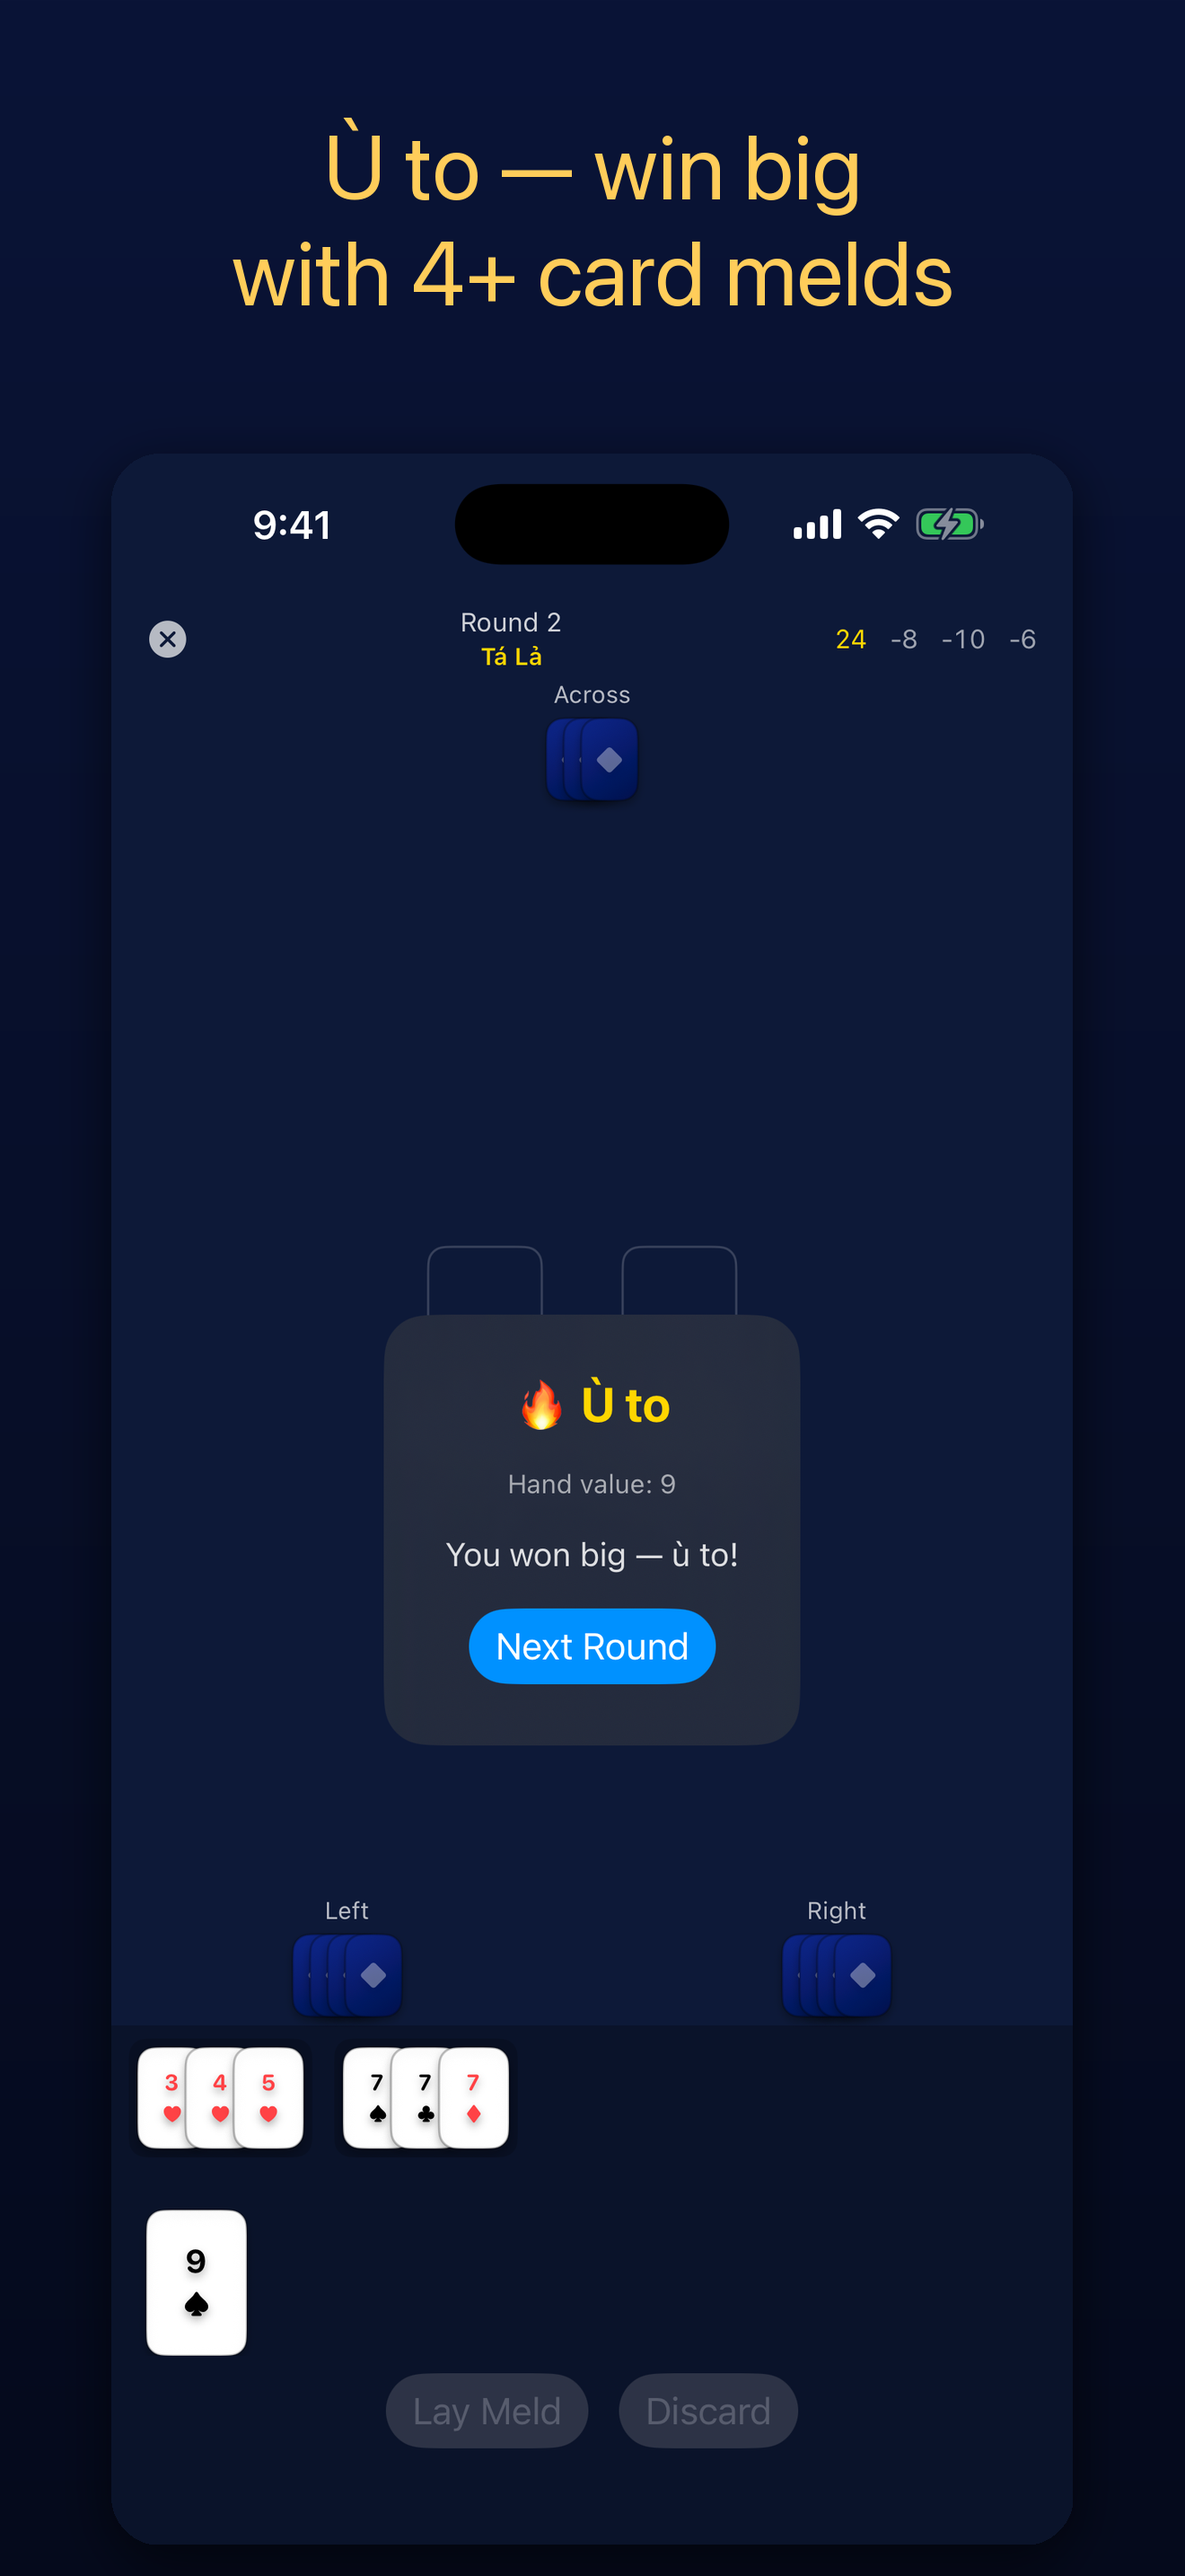
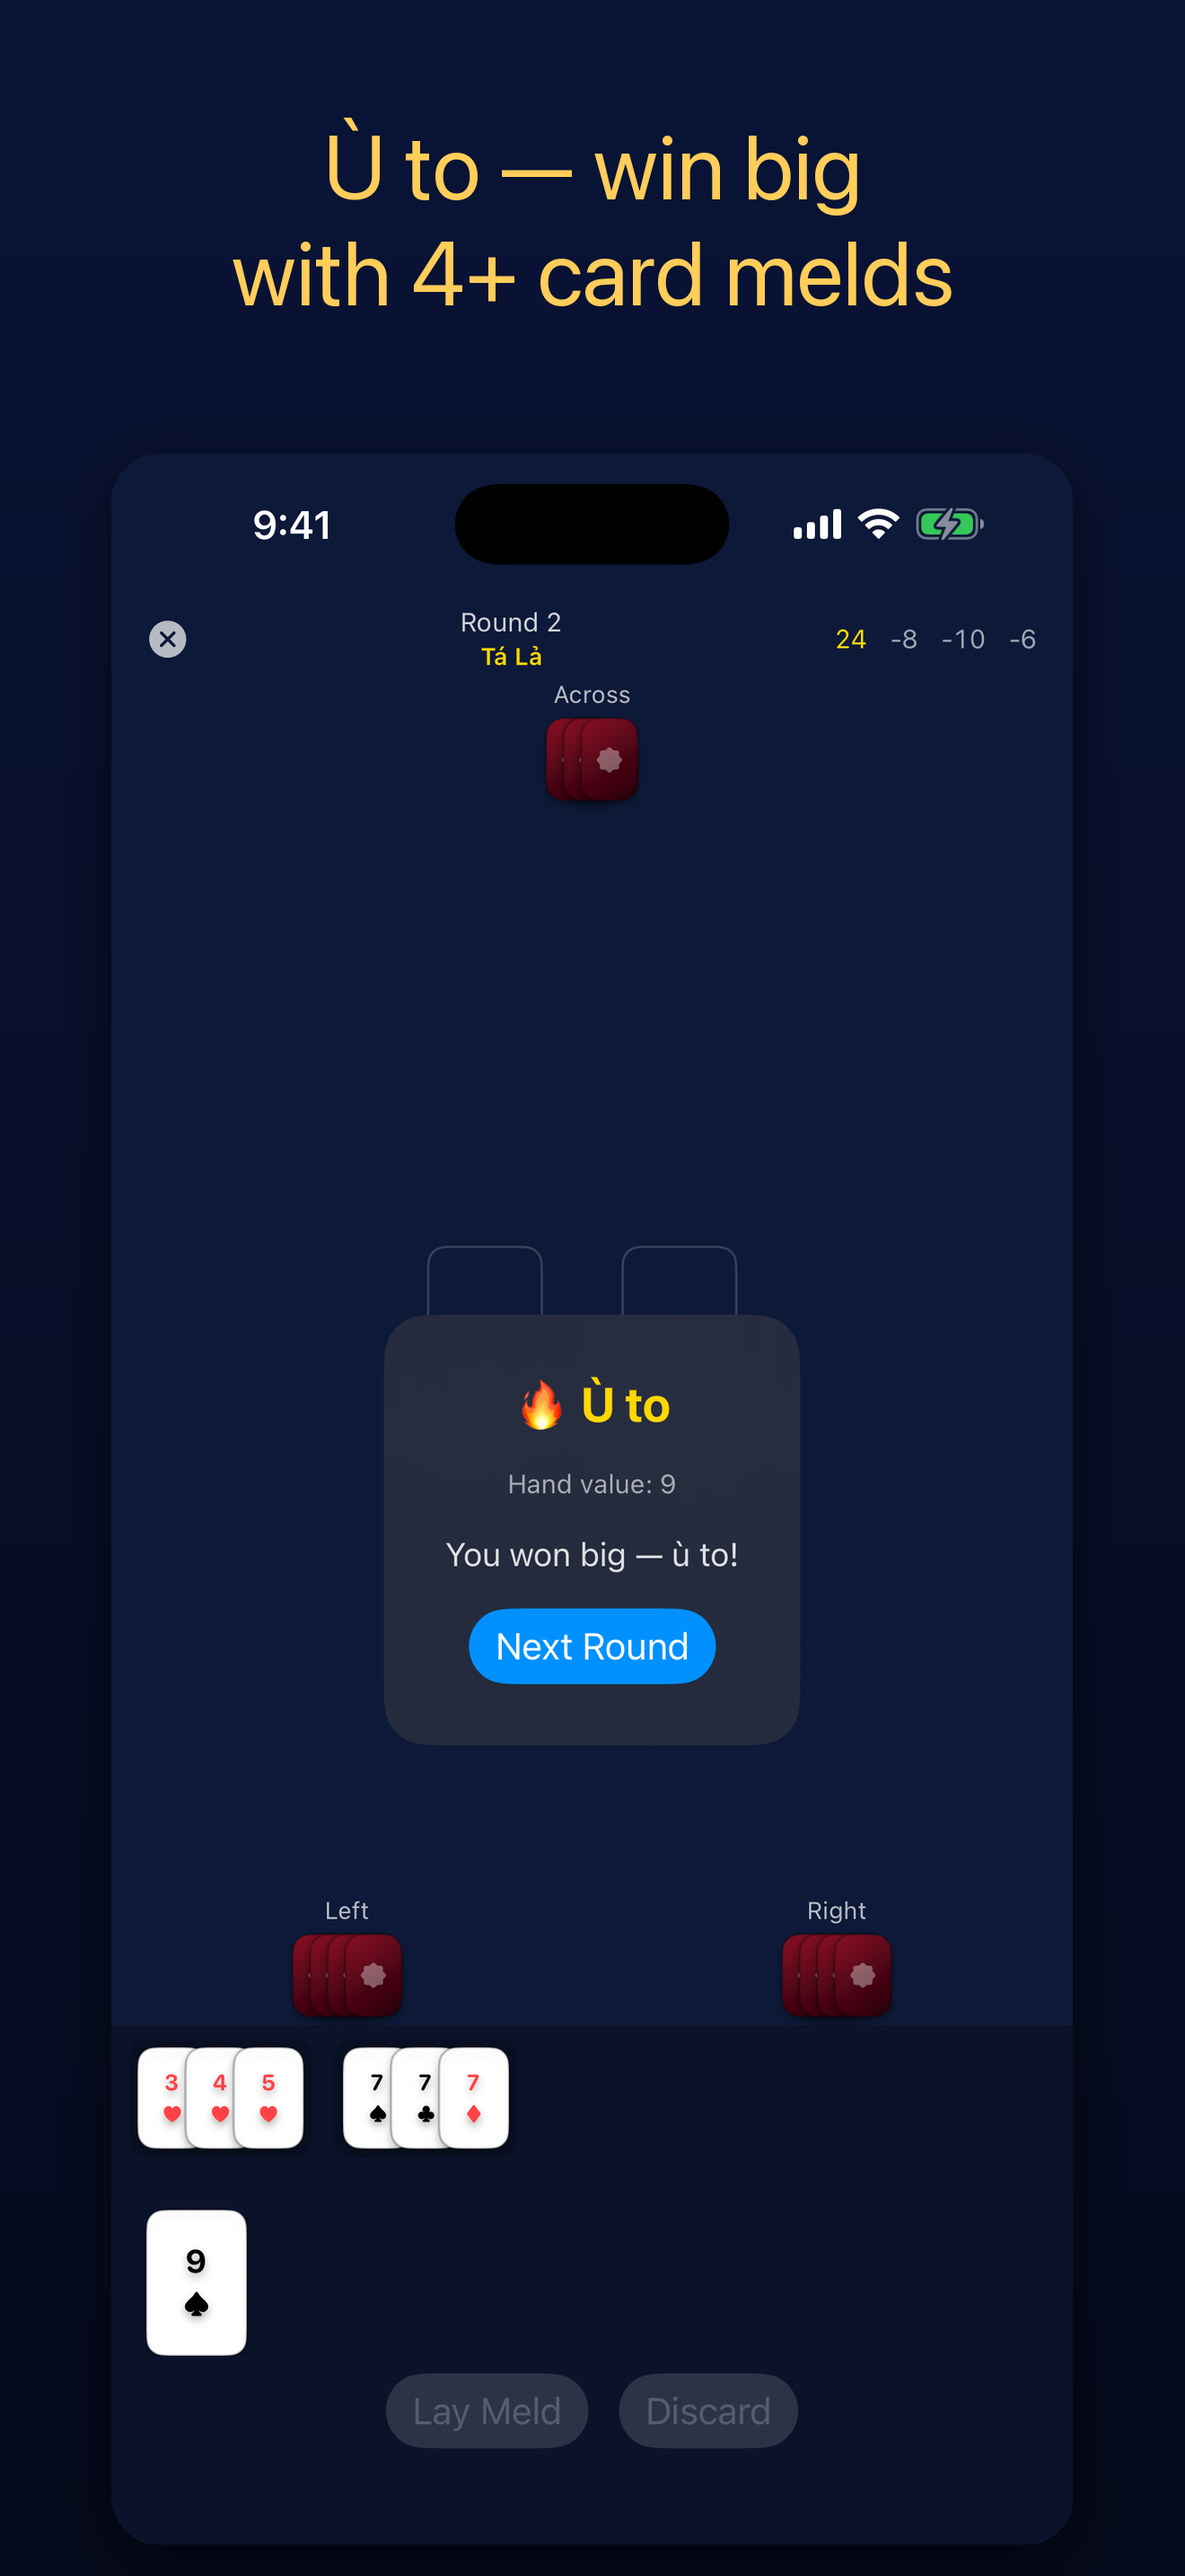
2nd polish pass: verify card-back Pro gating end-to-end, recapture stale upgrade screenshots, bump to 1.0.2
Re-verified the card-back feature (built 2026-08-09) actually renders live in-game and is
correctly gated: Pro users see all 3 swatches and the selection renders on real stock/opponent
cards; free users see a locked/dimmed picker and the game falls back to classic even with a
stale stored selection. Found the 04-upgrade.png marketing screenshots (en+vi) were stale,
predating the card-back picker — recaptured all 10 screenshots on a dedicated per-app simulator
device to avoid this session's shared-simulator contamination issue. Bumped to 1.0.2/build 3.

Claude-Session: https://claude.ai/code/session_01VsdrBUt79dm3oQQCmfugXC

Changed region(s): [[0.6523, 0.7448, 0.7765, 0.8068], [0.2485, 0.7448, 0.3417, 0.8068], [0.4348, 0.2793, 0.5591, 0.3103]]

diff --git a/capture_shots.py b/capture_shots.py
@@ -37,14 +37,41 @@ FONT_PATHS = ["/System/Library/Fonts/SFNSDisplay.ttf", "/System/Library/Fonts/SF
 def sh(*a, **k): return subprocess.run(a, check=True, capture_output=True, text=True, **k)
 
 
+DEDICATED_DEVICE_NAME = "PhomTaLa-Capture"
+
+
 def find_device():
+    # Use a dedicated per-app simulator, not a generic shared "iPhone ... Pro Max" name —
+    # this batch runs several apps' capture scripts concurrently, and a shared device name
+    # has repeatedly caused one app's screenshot run to capture a DIFFERENT app's UI mid-launch
+    # (contamination seen across this review wave). Create the dedicated device if missing.
     out = subprocess.run(["xcrun", "simctl", "list", "devices", "available"],
                          capture_output=True, text=True).stdout
     for line in out.splitlines():
-        m = re.search(r"^\s*(iPhone .*Pro Max)\s+\(([0-9A-F\-]{36})\)", line)
+        if DEDICATED_DEVICE_NAME in line:
+            m = re.search(r"\(([0-9A-F\-]{36})\)", line)
+            if m:
+                return m.group(1), DEDICATED_DEVICE_NAME
+    # Not found yet — create it, cloning the runtime of any available "Pro Max" device.
+    runtime = None
+    for line in out.splitlines():
+        m = re.search(r"^\s*iPhone .*Pro Max\s+\([0-9A-F\-]{36}\)", line)
         if m:
-            return m.group(2), m.group(1)
-    raise SystemExit("No available 'iPhone ... Pro Max' simulator found")
+            rt_out = subprocess.run(["xcrun", "simctl", "list", "devicetypes"],
+                                     capture_output=True, text=True).stdout
+            break
+    dt_out = subprocess.run(["xcrun", "simctl", "list", "runtimes", "available"],
+                             capture_output=True, text=True).stdout
+    rt_match = re.search(r"(com\.apple\.CoreSimulator\.SimRuntime\.iOS-\S+)", dt_out)
+    if not rt_match:
+        raise SystemExit("No available iOS runtime found to create dedicated capture device")
+    created = subprocess.run(["xcrun", "simctl", "create", DEDICATED_DEVICE_NAME,
+                              "iPhone 17 Pro Max", rt_match.group(1)],
+                              capture_output=True, text=True)
+    udid = created.stdout.strip()
+    if not udid:
+        raise SystemExit(f"Failed to create dedicated capture device: {created.stderr}")
+    return udid, DEDICATED_DEVICE_NAME
 
 
 def build_app():

diff --git a/CLAUDE.md b/CLAUDE.md
@@ -7,7 +7,8 @@ core, same XcodeGen/screenshot/icon tooling shape — but the game engine itself
 different: SamLoc is a shed-the-fastest trick-taking game (Combo-beats-Combo), this is a
 draw/meld/discard Rummy game (Meld-based). No code was shared between the two engines.
 
-**Status: 🟡 READY FOR RESUBMISSION AFTER 2026-08-18, pending Apple's Guideline 5.6 account hold.**
+**Status: 🟡 READY FOR RESUBMISSION — scheduled batch 6, 2026-09-03 (staggered plan, with Igisoro +
+Janggi), pending Apple's Guideline 5.6 account hold lifting 2026-08-18.**
 The whole developer account (19 apps, including this one) was hit with a Guideline 5.6
 "Developer Code of Conduct — Review Suspended" flag, almost certainly triggered by submitting
 ~19 similar template-style apps within an 8-day window (2026-08-01 through 2026-08-08). This is
@@ -74,6 +75,84 @@ functionality (not present before), not just a bug fix — it's also small in sc
   caveat as the original build.
 - The three new card-back gradients are palette-only (no new art/texture assets) — could be
   revisited for a more premium look in a later pass if conversion data ever justifies it.
+
+## Polish pass (2026-08-12)
+
+Second, deeper pass ahead of the 2026-09-03 batch-6 resubmission slot, building on the
+2026-08-09 bug-focused pass above (not redone here). Bumped to **version 1.0.2, build 3**
+(`project.yml`, both project-level and target-level blocks).
+
+**Highest-stakes check: re-verified the card-back Pro feature is genuinely present, functional,
+and correctly gated** — this app carries the same "sold-but-not-delivered IAP feature" defect
+history as Tiến Lên and Hanafuda Koi-Koi, so the 2026-08-09 fix needed independent confirmation,
+not just a re-read of the code:
+- Built Debug for a dedicated `PhomTaLa-Capture` simulator, launched with `PT_CAPTURE=upgrade`
+  (DEBUG defaults `isPro = true`) — screenshot confirmed "You own Phỏm & Tá Lả Pro", all three
+  swatches (Classic/Maroon/Gold) rendering distinctly, Classic selected by default.
+- Wrote `cardBackStyle=maroon` directly into the app's UserDefaults (via `defaults write` +
+  `killall cfprefsd` to bust the simulator's preference cache), relaunched `PT_CAPTURE=upgrade` —
+  selection ring correctly moved to Maroon. Relaunched `PT_CAPTURE=midgame` with that same
+  persisted selection — **the maroon card back genuinely renders on the stock pile and all 3
+  opponents' face-down hands in actual live `GameModel` game state**, not just the picker preview.
+- Temporarily patched `PurchaseManager.updateEntitlementStatus()`'s DEBUG override to respect a
+  `PT_FORCE_FREE` launch-arg override (revert confirmed via `git diff` showing no changes after),
+  rebuilt, relaunched with the stale `maroon` selection still stored — confirmed a non-Pro account
+  sees all three swatches dimmed/non-interactive with no selection ring and an "Unlock Pro" button
+  (not "You own Pro"), **and** the live game correctly falls back to the classic blue back despite
+  the stale stored preference (the `effectiveBackStyle` defense-in-depth guard works as commented).
+- Conclusion: the feature is real, functional, and correctly gated in both directions — not a
+  repeat of the sold-but-missing-feature defect this developer has hit three times now.
+
+**UI bug found and fixed**: `screenshots/final/{en,vi}/04-upgrade.png` were stale — captured
+before the 2026-08-09 card-back picker was built, so they showed only the 3 feature rows and no
+picker UI at all (same "stale screenshot predating a later feature" class found in several
+sibling apps this wave). Recaptured all 10 screenshots (both locales) on a dedicated
+`PhomTaLa-Capture` simulator device to avoid the shared-simulator contamination race hitting
+other concurrent agents this session; visually inspected all 10 — no contamination, correct
+language per locale, and the new `04-upgrade.png` now shows the real card-back picker with a
+selection ring (a nice side effect: `02-midgame.png`/`03-win.png` also picked up the maroon back
+from the still-set test preference, which is genuine in-app UI, not fabricated). `capture_shots.py`
+itself updated to target a dedicated per-app simulator device by name (creating it if missing)
+instead of the previous generic `iPhone .*Pro Max` regex match, which risked grabbing whichever
+shared simulator another concurrently-running agent had booted.
+
+**Re-verified still solid, no changes needed**: onboarding, full bilingual in-app localization
+(en/vi `Localizable.strings`), IAP DEBUG/isPro gating (single source of truth, confirmed clean —
+temporarily flipped via `PT_FORCE_FREE` above, then reverted), mode-crossed win-kind fix from
+2026-08-09, no build warnings.
+
+**ASO refresh**: description and promotional text were already genuinely strong (authentic rules
+detail, real differentiation language, no template boilerplate) — left unchanged per the
+"only refresh keywords if copy is already strong" guidance. Refreshed keywords in both locales:
+dropped terms redundant with the already-indexed name/subtitle (`phỏm`, `tá lả`, standalone
+`rummy`, `bài việt nam` in vi, `bài online` in vi — the last one also risked implying online
+multiplayer this offline-vs-AI app doesn't have), added non-redundant high-value terms
+(`vietnamese`, `choi bai`, `4 player`, `meld` in en; `chơi bài`, `4 người chơi`, `gia đình`,
+`bốc bài` in vi).
+
+**Push-script bugs found and fixed in `~/asc-tools/asc_push_phomtala.py`** (same latent-bug
+sweep applied across this session's other apps):
+- `find_app_info`: returned the first appInfo matching *any* state in an unordered set, which
+  could non-deterministically pick a locked state over the truly-editable `REJECTED` one when
+  multiple appInfos exist. Fixed to try states in explicit priority order (matches the fix in
+  `asc_push_tienlen.py`/`asc_push_surakarta.py`/etc.).
+- `find_or_create_version` hardcoded `"1.0.0"` as the target version string unconditionally,
+  which would have silently reset this app back to 1.0.0 on every push regardless of the actual
+  local build version. Replaced with a module-level `VERSION_STRING` constant, now `"1.0.2"`.
+- `set_iap_localization` had no error handling around the PATCH/POST calls — a locked
+  `inAppPurchaseVersion` (409 `STATE_ERROR.IAP_VERSION_UNMODIFIABLE`, which this app's IAP hit
+  live during this session's push) would have raised an unhandled `RuntimeError` and aborted the
+  script before app/IAP pricing ran. Wrapped in try/except to degrade gracefully, matching the
+  sibling scripts' fix.
+
+**ASC push confirmed live**: `asc_push_phomtala.py` and `asc_push_phomtala_screenshots.py` both
+run successfully — app info (name/subtitle/categories), version bumped 1.0.0 → 1.0.2
+(`releaseType` stayed `AFTER_APPROVAL`), keywords/description/promo/support URL for both
+locales, all 10 screenshots re-uploaded and reordered, app base price (Free) and IAP price
+($2.99) both set. IAP name/description localization PATCH still 409s (pre-existing server-side
+lock on this IAP's version, unrelated to this session's changes) — now handled as a graceful
+skip instead of a crash; not fixable from this script, would need Apple to unlock the IAP version
+or a new IAP version to be cut. No submit/review-submission action taken.
 
 ## Deploy / resubmit pattern
 
